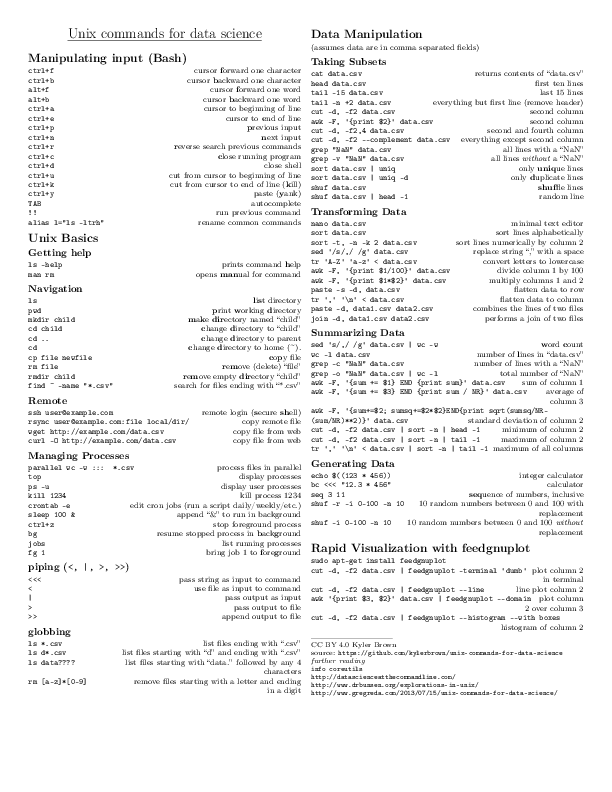
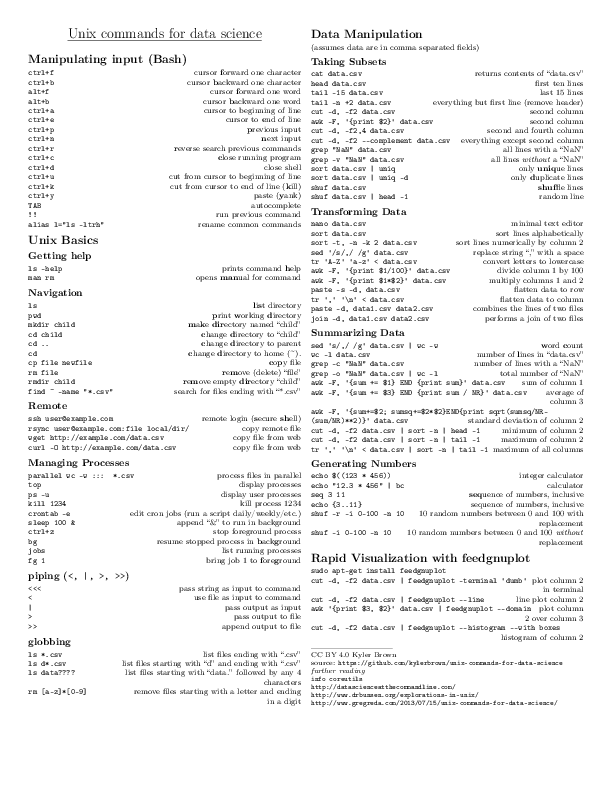
renamed generating data to generating numbers, simplified bc command added bash {1..10} number generator

diff --git a/unix-commands-for-data-science.tex b/unix-commands-for-data-science.tex
@@ -191,10 +191,11 @@
 {\tt cut -d, -f2 data.csv | sort -n | tail -1} \hfill maximum of column 2\\
 {\tt tr \q ,\q\ \q\textbackslash n\q\ < data.csv | sort -n | tail -1} \hfill maximum of all columns\\
 
-\subsection{Generating Data}
+\subsection{Generating Numbers}
 {\tt echo \$((123 * 456))} \hfill integer calculator\\
-{\tt bc <{}<{}< \qq 12.3 * 456\qq} \hfill calculator\\
+{\tt echo \qq 12.3 * 456\qq\ | bc} \hfill calculator\\
 {\tt seq 3 11} \hfill {\bf seq}uence of numbers, inclusive\\
+{\tt echo \{3..11\}} \hfill sequence of numbers, inclusive\\
 {\tt shuf -r -i 0-100 -n 10} \hfill 10 random numbers between 0 and 100 with\\
 	\hfill replacement\\
 {\tt shuf -i 0-100 -n 10} \hfill 10 random numbers between 0 and 100 \emph{without}\\ 
